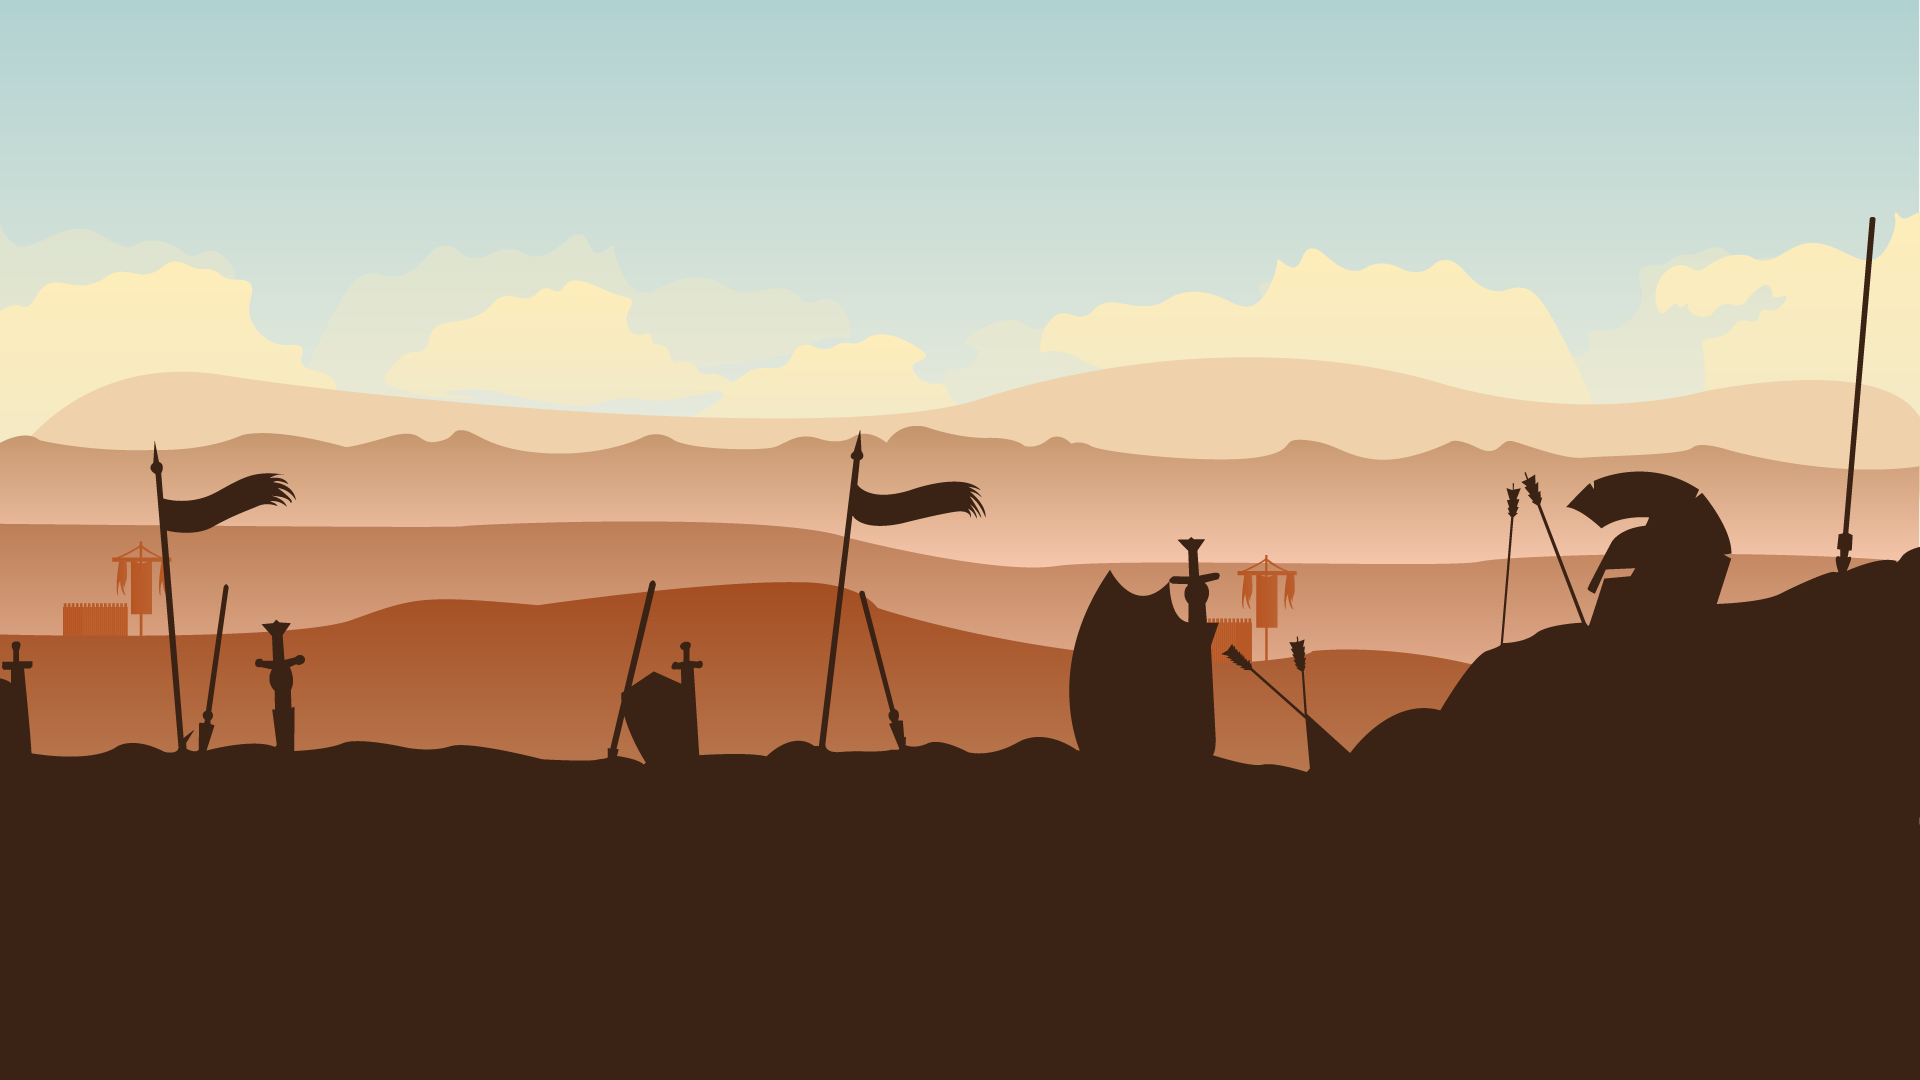
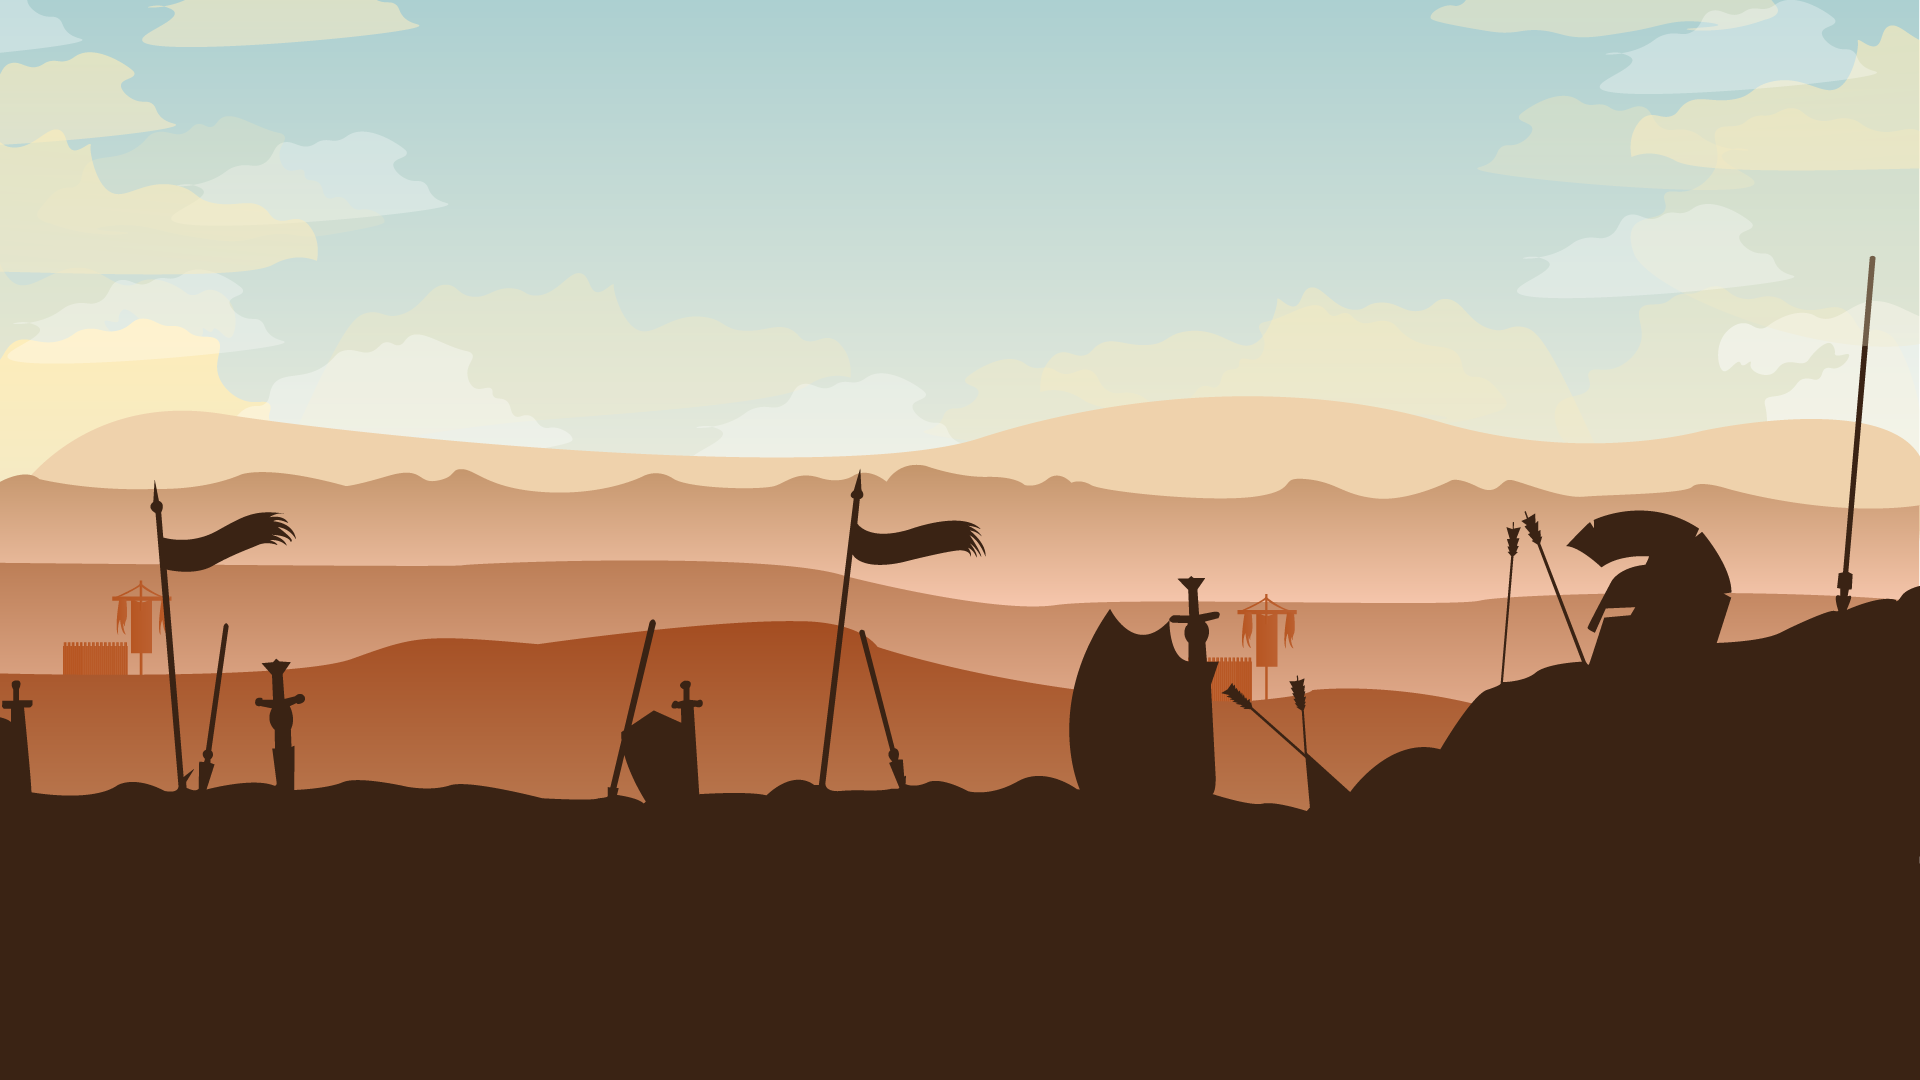
design

Changed region(s): [[0.0, 0.0, 1.0, 0.7639], [0.75, 0.0, 0.9375, 0.0306]]

diff --git a/Menu/page1.css b/Menu/page1.css
@@ -17,7 +17,6 @@
 body {
     font-family: 'Greconian', sans-serif;
     margin-top: 200px;
-    background-image: url('image/Plan.png');
     background-color: #ebdcbd;
     background-size: cover;
     background-repeat: no-repeat;
@@ -27,20 +26,22 @@ body {
 h1 {
  
     margin-top: 50px;
-    margin-bottom: 30px;
+    margin-bottom: 25px;
     text-align: center;
     color: #321b0d;
     font-size: 4.7rem; /* ou 48px, ou 300% */
   }
 
   h2 {
- 
+    background-color: rgba(197, 92, 31, 0.634);
+    padding: 2px 4px;
+    border-radius: 5px;
     color: #ffffff;
 
   }
 
 
-P {
+p {
   font-family: 'BlockBarthold', sans-serif;
   text-align: center;
   color: #ffffff;

diff --git a/Troop_Placement/page2.css b/Troop_Placement/page2.css
@@ -1,3 +1,11 @@
+@font-face {
+  font-family: 'Greconian';
+  src: url('../fonts/GreconianRegular.woff') format('woff'),
+       url('../fonts/Greconian.ttf') format('truetype');
+  font-weight: normal;
+  font-style: normal;
+}
+
 body {
     font-family: 'Cinzel', serif;
     margin-top: 90px;
@@ -9,8 +17,11 @@ body {
 }
 
 h1 {
-    margin-top: 10px;
+    font-family: 'Greconian', sans-serif;
+    margin-top: 5px;
 }
+
+
 .button-group {
     display: flex;
     justify-content: center;

diff --git a/index.html b/index.html
@@ -16,7 +16,7 @@
 
         margin: 0;
         height: 100vh;
-        background-image: url('image/Plan.png'); /* chemin vers ton image */
+        background-image: url('image/fond.png'); /* chemin vers ton image */
         background-size: cover;         /* couvre tout l'écran */
         background-position: center;    /* centré */
         background-repeat: no-repeat;   /* pas de répétition */
